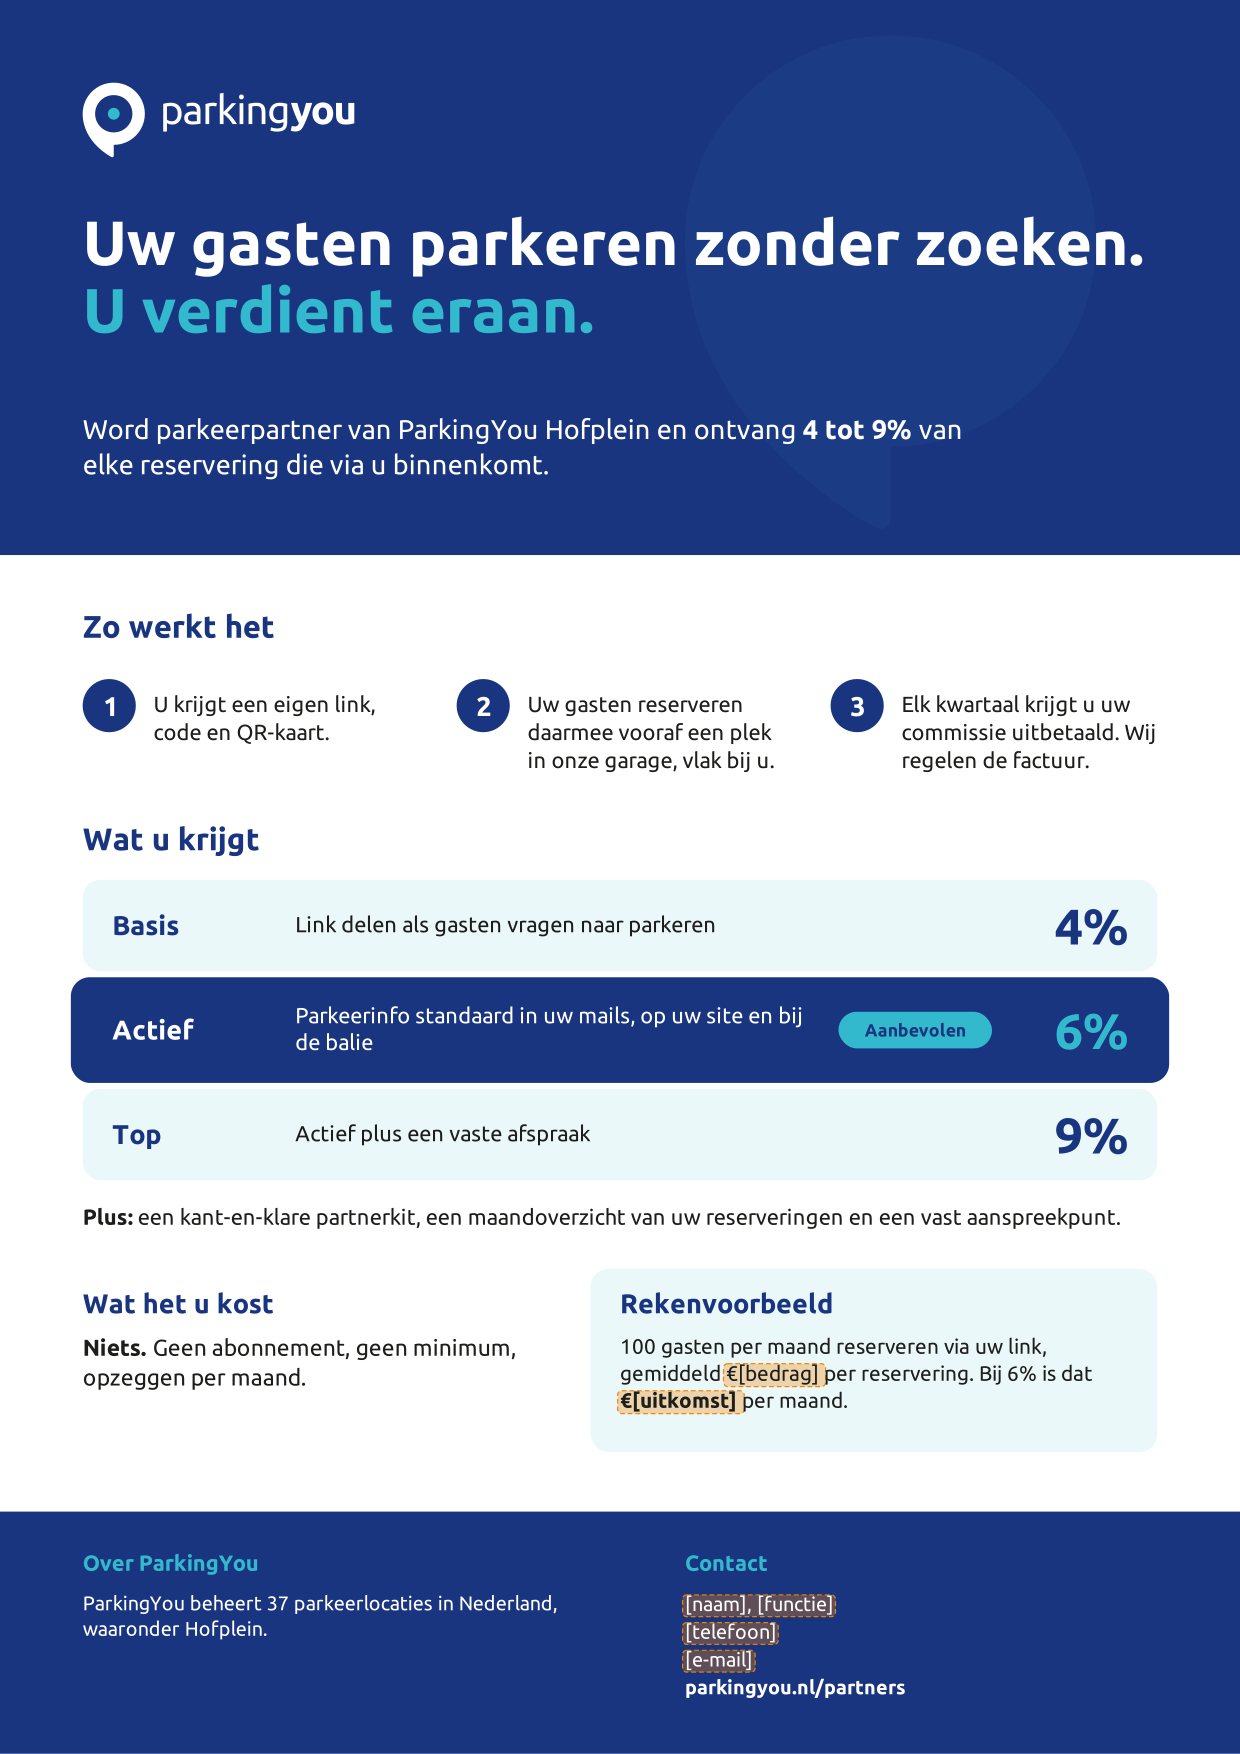
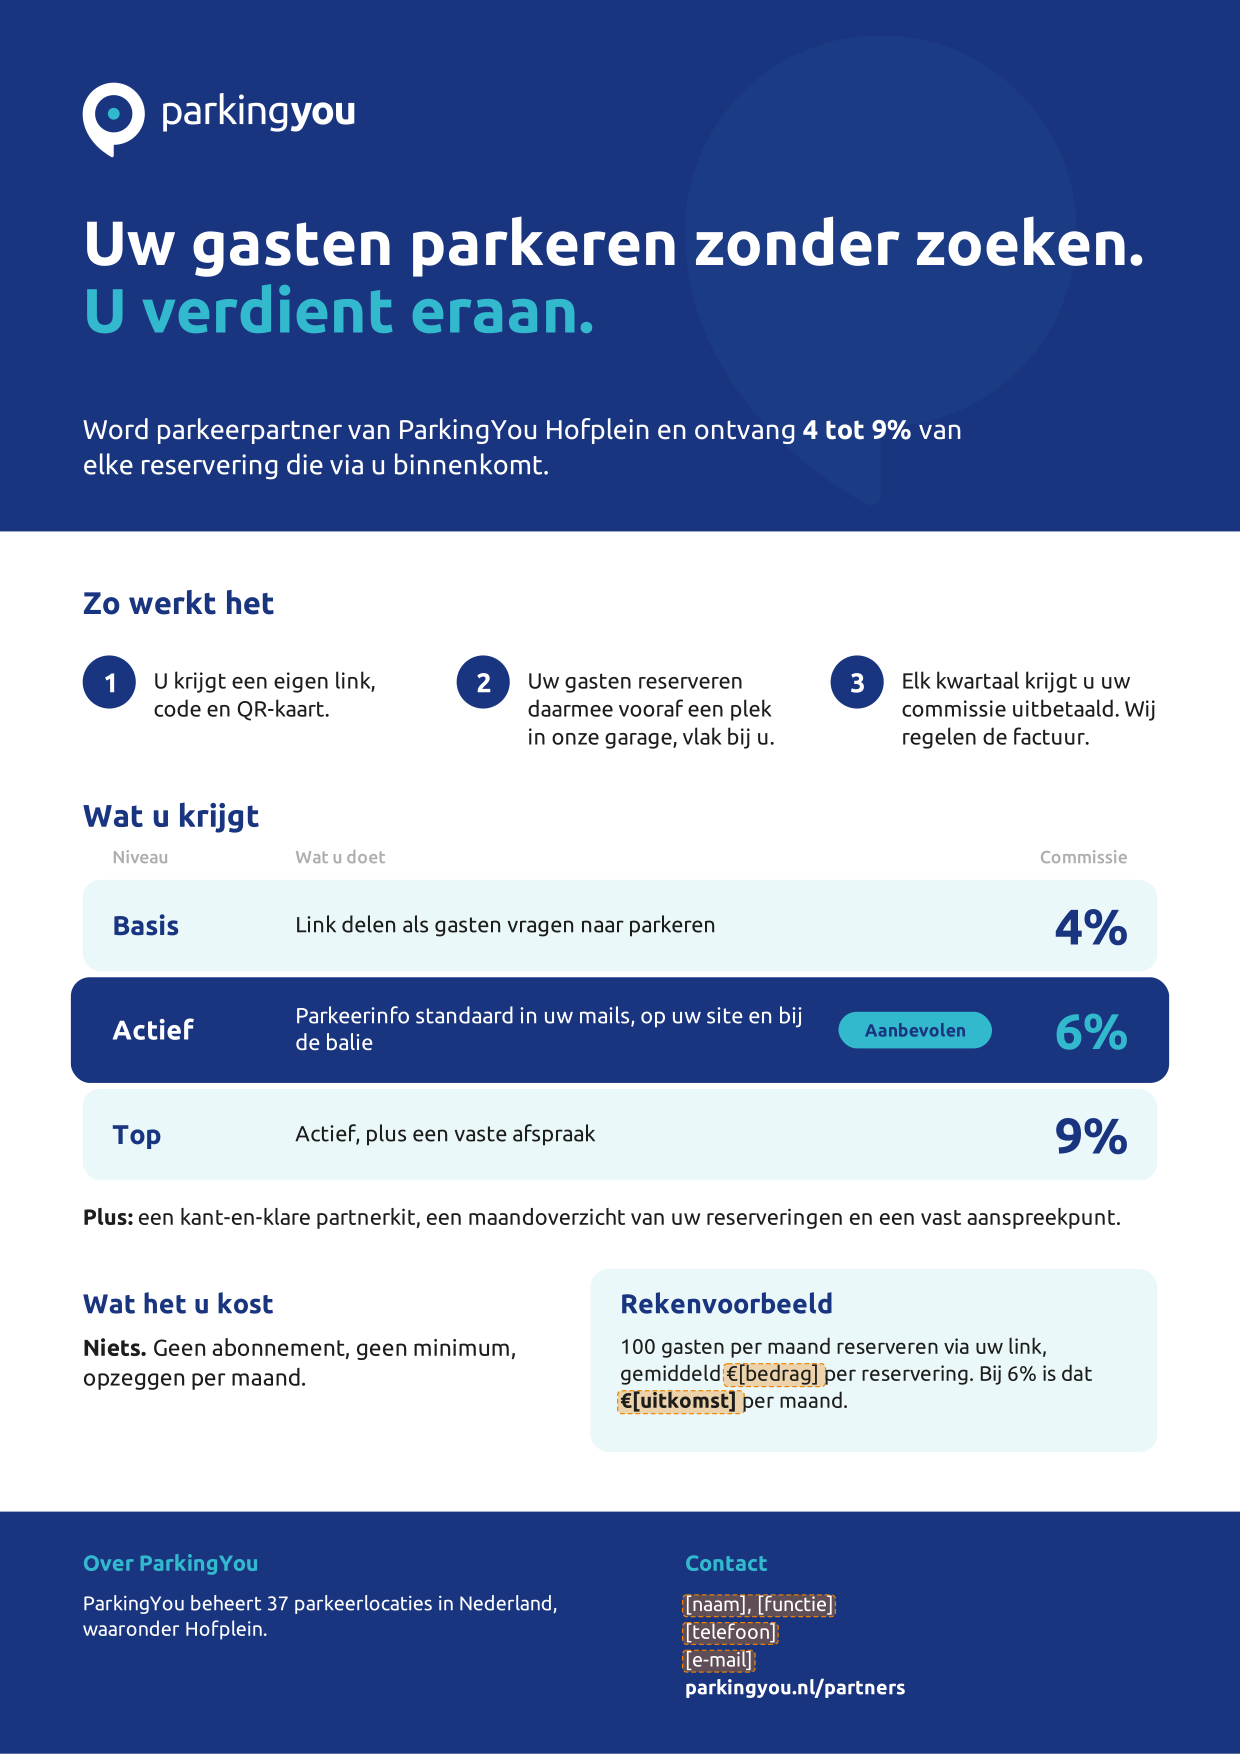
Partnerprogramma: tabelkoppen one-pager, captions bij posts, bronnen en afwijkingen in README
Claude-Session: https://claude.ai/code/session_01Qkz2fHaWjN4qLDWNLL7RDz

diff --git a/partnerprogramma/1-onepager/ontwerp.py b/partnerprogramma/1-onepager/ontwerp.py
@@ -12,7 +12,7 @@ from ppkit.doc import Doc             # noqa: E402
 W, H = 210, 297
 M = 14                  # marge links en rechts
 CW = W - 2 * M          # tekstbreedte
-HEAD = 94               # hoogte navy kop
+HEAD = 90               # hoogte navy kop
 FOOT = 256              # begin navy voet
 
 d = Doc(W, H, "ParkingYou partnerprogramma, one-pager {locatie}", defs=b.verloop_defs("verloop", "diag"))
@@ -48,8 +48,11 @@ y = HEAD + 45
 d.text(M, y + 5, "Wat u krijgt", "bold", 15, b.BLAUW)
 rows = [("Basis", "Link delen als gasten vragen naar parkeren", "4%", False),
         ("Actief", "Parkeerinfo standaard in uw mails, op uw site en bij de balie", "6%", True),
-        ("Top", "Actief plus een vaste afspraak", "9%", False)]
-ry, rh, rg = y + 10, 15.5, 2.2
+        ("Top", "Actief, plus een vaste afspraak", "9%", False)]
+d.text(M + 5, y + 11.2, "Niveau", "medium", 8.5, b.GRIJS)
+d.text(M + 36, y + 11.2, "Wat u doet", "medium", 8.5, b.GRIJS)
+d.text(M + CW - 5, y + 11.2, "Commissie", "medium", 8.5, b.GRIJS, anchor="end")
+ry, rh, rg = y + 14, 15.5, 2.2
 for i, (naam, tekst, pct, rec) in enumerate(rows):
     t = ry + i * (rh + rg)
     if rec:

diff --git a/partnerprogramma/4-social/vul.py b/partnerprogramma/4-social/vul.py
@@ -3,6 +3,7 @@
 
     python3 -I partnerprogramma/4-social/vul.py [CODE ...]
 """
+import json
 import os
 import sys
 
@@ -28,6 +29,13 @@ def bouw(partner, uit=None):
             p = os.path.join(uit, f"parkingyou-social-{naam}-{k}-{partner['code']}.png")
             render.png(gevuld, p, px)
             out.append(p)
+    # captions: de tekst bij de post, uit captions.json (bron: tab Partnerkit, Social posts)
+    captions = json.load(open(os.path.join(HERE, "captions.json"), encoding="utf-8"))
+    for naam in TEMPLATES:
+        tekst = template.fill_fields(captions[naam], vals).replace("\u00a0", " ")
+        p = os.path.join(uit, f"parkingyou-social-{naam}-caption-{partner['code']}.txt")
+        open(p, "w", encoding="utf-8").write(tekst + "\n")
+        out.append(p)
     return out
 
 
@@ -36,4 +44,4 @@ if __name__ == "__main__":
     for p in data.partners():
         if not codes or p["code"] in codes:
             files = bouw(p)
-            print(p["code"], len(files), "posts")
+            print(p["code"], len(files), "bestanden")

diff --git a/partnerprogramma/5-landingspagina/teksten-landingspagina.md b/partnerprogramma/5-landingspagina/teksten-landingspagina.md
@@ -1,0 +1,84 @@
+# Teksten landingspagina parkingyou.nl/partners
+
+Bron: Claude Doc "Partnerprogramma ParkingYou: teksten en documenten", tab Werving, sectie "Landingspagina parkingyou.nl/partners", "Rekenhulp" en (voor de tabel) "One-pager". Letterlijk overgenomen.
+Het losse bestand `teksten-landingspagina.md` uit de brief was niet beschikbaar; dit bestand is er de vervanger van. Vervang het door het echte bestand zodra dat er is.
+`{velden}` vult de bouw per locatie of partner; `[haken]` vult Rick één keer in.
+
+## Pagina
+
+- URL: parkingyou.nl/partners
+- Paginatitel: Partner worden van ParkingYou | Verdien aan parkeren
+- Metabeschrijving: Heeft u een bedrijf bij een van onze garages? Uw gasten reserveren een plek, u krijgt 4 tot 9% commissie. Gratis en zonder verplichtingen.
+
+## Hero
+
+- Kop: Uw gasten parkeren zonder zoeken. U verdient eraan.
+- Tekst: Hotel, theater, restaurant of zaal bij een ParkingYou-garage? Geef uw gasten een vaste plek vlakbij en ontvang commissie op elke reservering.
+- Knop: Word partner
+
+## Zo werkt het (drie blokken)
+
+1. **Aanmelden.** Vul het formulier in. We bellen u binnen twee werkdagen.
+2. **Delen.** U krijgt een eigen link, code en QR-kaart voor uw gasten.
+3. **Verdienen.** Elk kwartaal krijgt u uw commissie. Wij regelen de factuur.
+
+## Voor wie
+
+hotels, theaters en bioscopen, congres- en evenementenlocaties, trouw- en feestlocaties, restaurants, kantoren en sportclubs in de buurt van een ParkingYou-garage.
+
+## Commissie
+
+Dezelfde tabel als op de one-pager (Basis 4%, Actief 6%, Top 9%).
+
+| Niveau | Wat u doet | Commissie |
+|---|---|---|
+| Basis | Link delen als gasten vragen naar parkeren | 4% |
+| Actief | Parkeerinfo standaard in uw mails, op uw site en bij de balie | 6% |
+| Top | Actief, plus een vaste afspraak | 9% |
+
+Plus: een kant-en-klare partnerkit, een maandoverzicht van uw reserveringen en een vast aanspreekpunt.
+Wat het u kost: niets. Geen abonnement, geen minimum, opzeggen per maand.
+
+## Rekenhulp
+
+Formule: commissie per maand = bezoekers met auto x deel dat reserveert x gemiddelde boeking x percentage.
+
+| Invoer | Standaard | Opmerking |
+|---|---|---|
+| Bezoekers met de auto per maand | 200 | schuifje 10 tot 5.000 |
+| Deel dat via uw link reserveert | 20% | schuifje 5 tot 60% |
+| Gemiddelde boeking | per locatie vast ingevuld | niet aanpasbaar door de bezoeker |
+| Niveau | Actief (6%) | keuze Basis, Actief, Top |
+
+Uitkomst: "Indicatie: €{x} per maand, €{y} per jaar." Daaronder klein: "Dit is een rekenvoorbeeld, geen garantie. De echte commissie hangt af van hoeveel gasten reserveren."
+
+## Veelgestelde vragen
+
+- *Wat kost het?* Niets. Geen abonnement, geen minimum.
+- *Hoe weten jullie dat een reservering via ons komt?* Elke reservering met uw link of code wordt aan u gekoppeld.
+- *Wanneer krijg ik geld?* Per kwartaal, binnen 30 dagen na het einde van het kwartaal.
+- *Moet ik een factuur sturen?* Nee, wij maken die namens u op.
+- *Zie ik wie er geparkeerd heeft?* Nee, u ziet alleen aantallen en omzet. Zo blijven de gegevens van uw gasten privé.
+- *Kan ik stoppen?* Ja, per maand.
+
+## Aanmeldformulier
+
+| Veld | Type | Verplicht |
+|---|---|---|
+| Bedrijfsnaam | tekst | ja |
+| KvK-nummer | tekst | ja |
+| Soort bedrijf | keuze: hotel, theater/bioscoop, evenementen/congres, trouw/feest, restaurant, kantoor/coworking, sport/opleiding, anders | ja |
+| Bij welke garage | keuze uit locaties | ja |
+| Naam contactpersoon | tekst | ja |
+| Functie | tekst | nee |
+| E-mail | e-mail | ja |
+| Telefoon | telefoon | ja |
+| Bezoekers met de auto per maand | keuze: tot 50, 50 tot 200, 200 tot 1.000, meer dan 1.000 | nee |
+| Opmerking | tekst | nee |
+| Akkoord met voorwaarden en privacyverklaring | vinkje | ja |
+
+Na versturen: "Bedankt! We bellen u binnen twee werkdagen."
+
+## Niet in de bron (blijft [placeholder])
+
+Links naar voorwaarden en privacyverklaring, het formulier-endpoint, een kop en intro per blok behalve de hierboven genoemde.

diff --git a/partnerprogramma/README.md b/partnerprogramma/README.md
@@ -40,12 +40,27 @@ De QR-code wijst naar `https://` plus `link`.
 
 ## Wat nog moet worden aangeleverd (placeholders blijven zichtbaar)
 
-* `[bedrag]` en `[uitkomst]` in het rekenvoorbeeld: `gemiddelde_boeking_eur` per locatie in `data/locaties.json`.
+* `[bedrag]` en `[uitkomst]` in het rekenvoorbeeld: `gemiddelde_boeking_eur` per locatie in `data/locaties.json`. In het brondocument staat €15 als voorbeeld; dat is bewust niet overgenomen.
 * `[naam]`, `[functie]`, `[telefoon]`, `[e-mail]` bij Contact: `contact` in `data/partnerprogramma.json`.
 * Echte partners in `data/partners.csv` (nu twee voorbeeldpartners met verzonnen afstanden).
-* Alle teksten van de landingspagina uit `teksten-landingspagina.md` (dat bestand was niet beschikbaar); zie `5-landingspagina/README.md`.
+* Landingspagina: links naar voorwaarden en privacyverklaring en het formulier-endpoint; zie `5-landingspagina/README.md`.
 
 Placeholders in `[haken]` krijgen automatisch een oranje markering in de exports.
+
+## Bron van de teksten
+
+`teksten-landingspagina.md` uit de brief was niet beschikbaar. De teksten komen uit het Claude Doc "Partnerprogramma ParkingYou: teksten en documenten":
+tab Werving (one-pager en landingspagina) en tab Partnerkit (balie- en QR-kaart, social posts en captions). `5-landingspagina/teksten-landingspagina.md` is daar een letterlijke kopie van en vervangt het ontbrekende bestand.
+
+## Waar brief en brondocument verschillen
+
+| Plek | Brief | Brondocument | Gekozen |
+|---|---|---|---|
+| One-pager, stap 2 | "in onze garage, vlak bij u" | "in onze garage, op {afstand} lopen" | brief; een one-pager is per locatie en kent geen afstand per partner |
+| One-pager, niveau Top | "Actief plus een vaste afspraak" | "Actief, plus een vaste afspraak" | brondocument (alleen een komma) |
+| One-pager, tabel | geen kolomkoppen | Niveau, Wat u doet, Commissie | brondocument |
+| Rekenvoorbeeld | zichtbare placeholder | €15, €90, "ruim €1.000" als voorbeeld | placeholder |
+| Rekenhulp, disclaimer | "Dit is een rekenvoorbeeld, geen garantie." | plus "De echte commissie hangt af van hoeveel gasten reserveren." | brondocument |
 
 ## Keuzes buiten de brief
 
@@ -54,7 +69,8 @@ Placeholders in `[haken]` krijgen automatisch een oranje markering in de exports
 * **Tafelstandaard:** gelezen als tentkaart: een vel van 105 x 296 mm, vouw op 148 mm, twee A6-kanten (de bovenste staat op zijn kop zodat beide kanten rechtop staan). Vouwmerken staan in de afloop.
 * **Partnerlogo in de posts en de mailheader:** de badge uit `3-partnerlogo` (donker, liggend). Het eigen logo van de partner is niet geplaatst.
 * **"Licht" en "donker"** gaan over de achtergrond waarop de badge staat, niet over de badge zelf.
-* **Eén woord toegevoegd:** het label "Aanbevolen" bij Actief. Verder staan de teksten letterlijk uit de brief; alleen hoofdletters aan het begin van tabelcellen en regels zijn gezet en de contactgegevens staan op aparte regels.
+* **Eén woord toegevoegd:** het label "Aanbevolen" bij Actief. Verder zijn de teksten letterlijk; alleen hoofdletters aan het begin van tabelcellen en regels zijn gezet en de contactgegevens staan op aparte regels.
 * **Artis (Plantage):** in `locaties.json` staat `locatie` als "Artis (Plantage)", dus de tekst luidt "ParkingYou Artis (Plantage)". Pas daar aan als dit "Artis" moet zijn.
-* **Captions** bij de posts staan niet in de brief en zijn niet geschreven.
+* **Captions** bij de posts komen uit het brondocument (`4-social/captions.json`) en staan per partner als `.txt` naast de posts. De caption van de partnerpost eindigt op "Link in bio"; dat past niet bij LinkedIn.
+* **Rekenhulp:** extra keuze voor de garage, omdat de gemiddelde boeking per locatie verschilt.
 * **Drukcontrole:** exports hebben geen snijmerken; BleedBox en TrimBox zijn in de PDF gezet.
